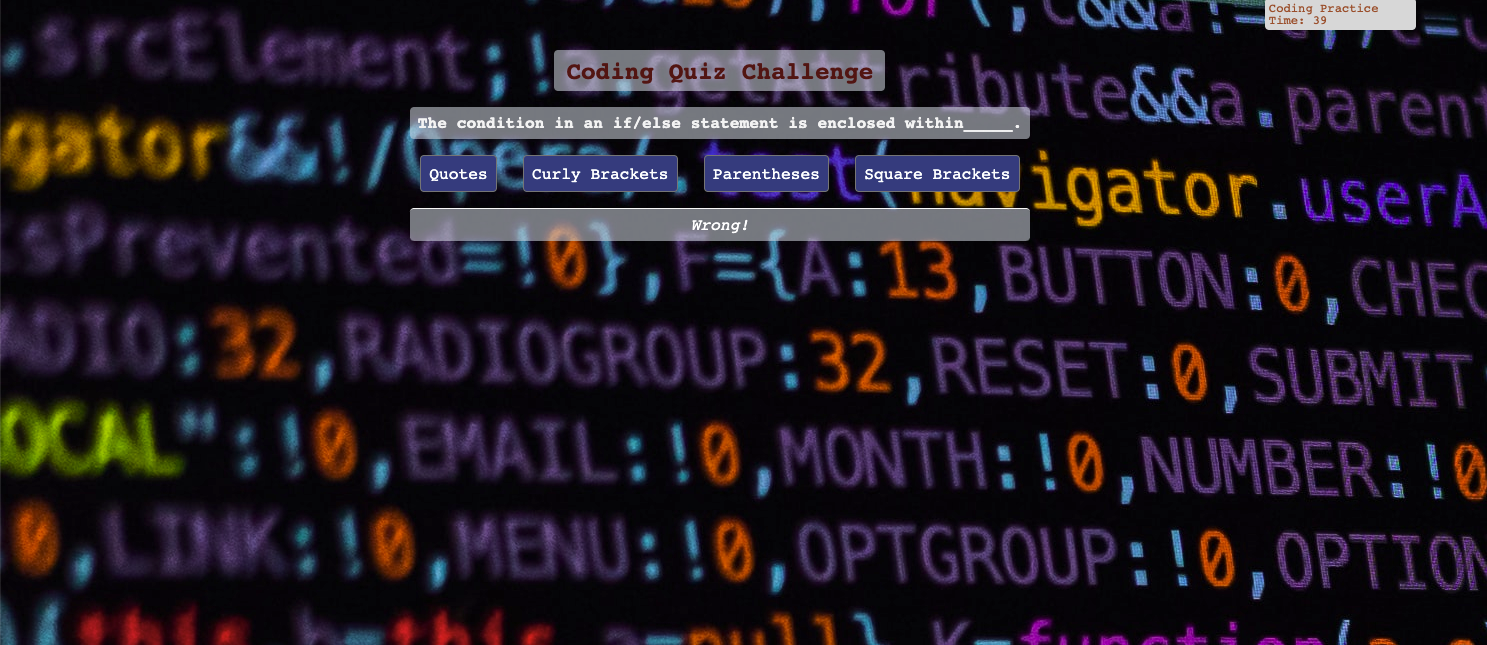
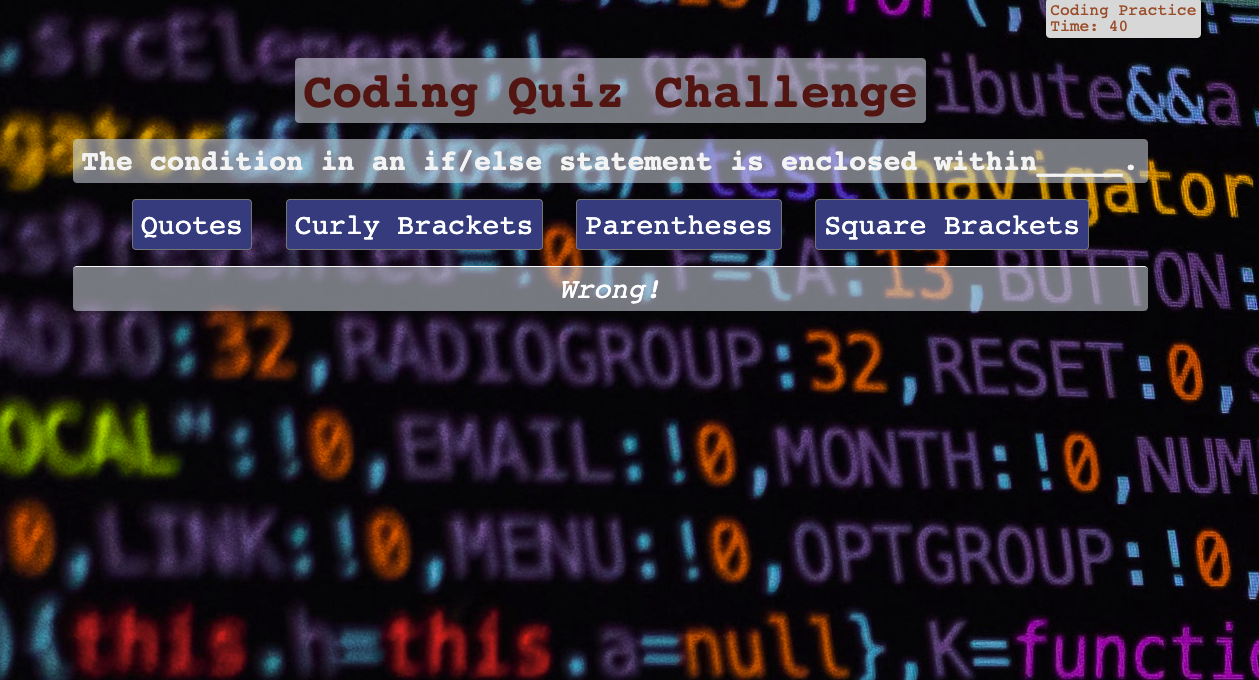
Fixed license and update pictures in README and CSS.

diff --git a/assets/css/style.css b/assets/css/style.css
@@ -19,7 +19,7 @@ header {
   display: flex;
   justify-content: flex-end;
   margin-right: 1.5rem;
-  font-size: 1.5rem;
+  font-size: 2rem;
   color: rgb(167, 82, 51);
   height: 5%;
   width: 95%;
@@ -37,14 +37,14 @@ main {
   flex-direction: column;
   align-items: center;
   text-align: center;
-  font-size: 2rem;
+  font-size: 3.5rem;
   margin: 1.5rem;
   height: 95%;
   width: 95%;
 }
 
 h1 {
-  font-size: 3rem;
+  font-size: 6rem;
   margin: 1rem;
   color: rgb(94, 16, 16);
   background-color: rgba(210, 217, 226, 0.603);

diff --git a/README.md b/README.md
@@ -64,7 +64,27 @@ Please see below for examples of this webpage, which demonstrate its functionali
 
 ## License
 
-© 2021 Trilogy Education Services, LLC, a 2U, Inc. brand. Confidential and Proprietary. All Rights Reserved.
+MIT License
+
+Copyright (c) [2021] [Colleen Fimister]
+
+Permission is hereby granted, free of charge, to any person obtaining a copy
+of this software and associated documentation files (the "Software"), to deal
+in the Software without restriction, including without limitation the rights
+to use, copy, modify, merge, publish, distribute, sublicense, and/or sell
+copies of the Software, and to permit persons to whom the Software is
+furnished to do so, subject to the following conditions:
+
+The above copyright notice and this permission notice shall be included in all
+copies or substantial portions of the Software.
+
+THE SOFTWARE IS PROVIDED "AS IS", WITHOUT WARRANTY OF ANY KIND, EXPRESS OR
+IMPLIED, INCLUDING BUT NOT LIMITED TO THE WARRANTIES OF MERCHANTABILITY,
+FITNESS FOR A PARTICULAR PURPOSE AND NONINFRINGEMENT. IN NO EVENT SHALL THE
+AUTHORS OR COPYRIGHT HOLDERS BE LIABLE FOR ANY CLAIM, DAMAGES OR OTHER
+LIABILITY, WHETHER IN AN ACTION OF CONTRACT, TORT OR OTHERWISE, ARISING FROM,
+OUT OF OR IN CONNECTION WITH THE SOFTWARE OR THE USE OR OTHER DEALINGS IN THE
+SOFTWARE.
 
 ## Links
 
